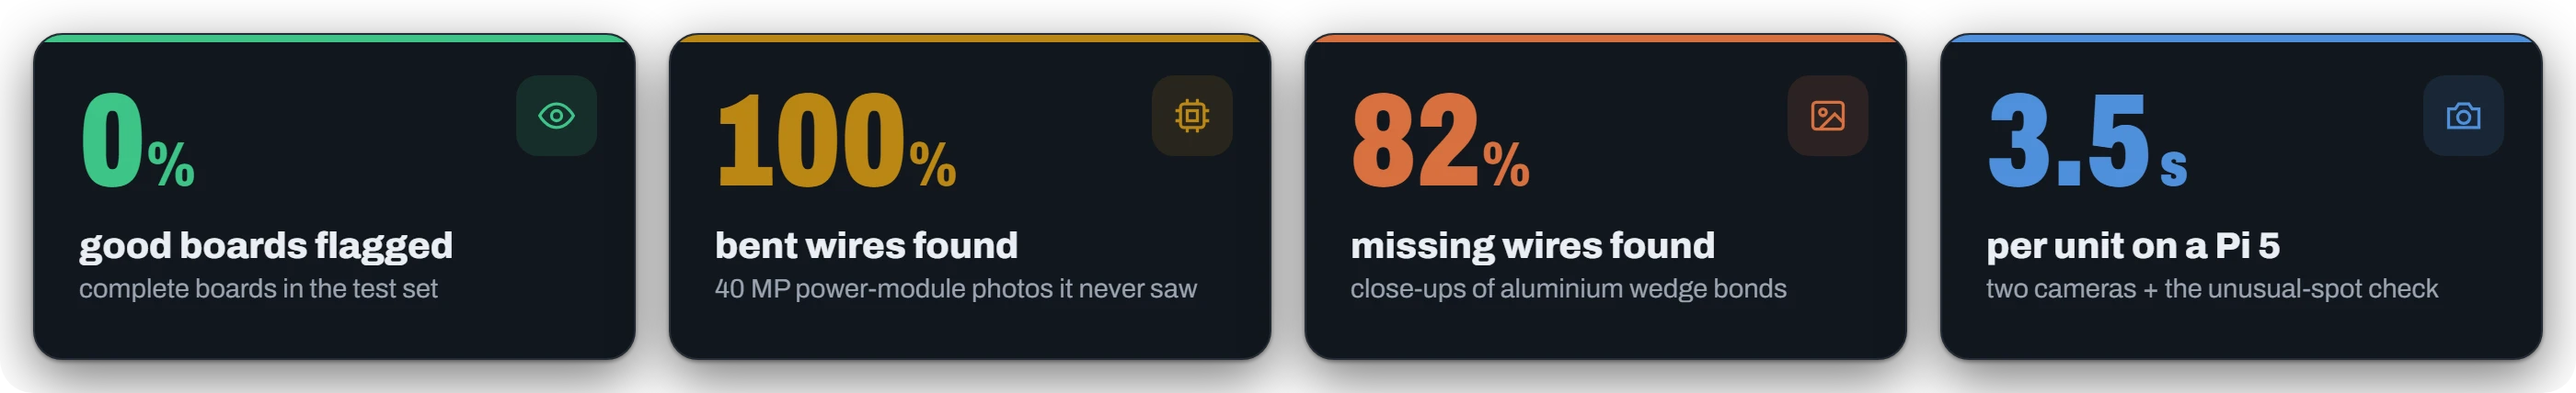
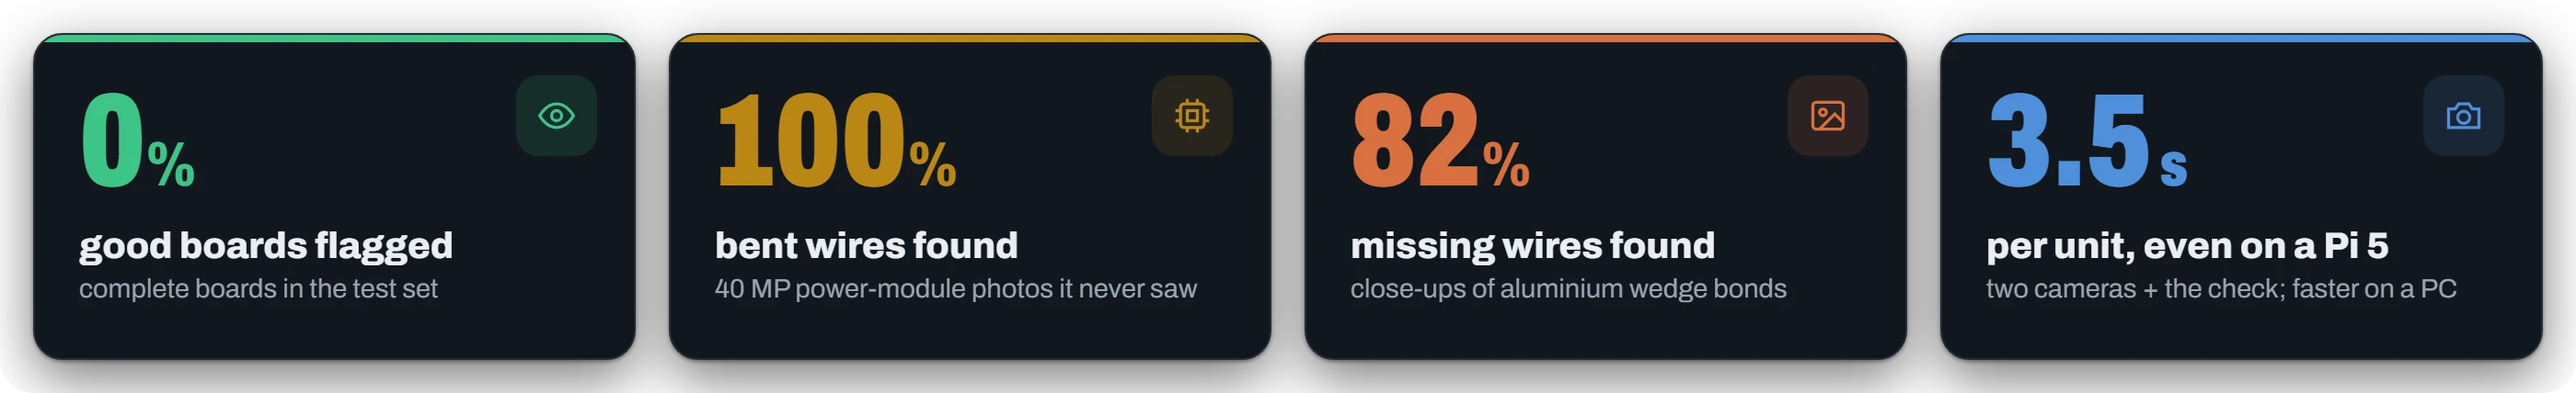
Say it runs on a PC or a Raspberry Pi 5, not only on the Pi
The Pi 5 is the smallest machine it has been tested on; any 64-bit Windows or Linux computer works, and a faster CPU is quicker.

Changed region(s): [[0.8079, 0.5771, 0.9321, 0.6682], [0.8389, 0.6986, 0.9632, 0.7593]]

diff --git a/docs/brand/figures.html b/docs/brand/figures.html
@@ -565,7 +565,7 @@ F.glance=d=>{
   const C=[["0","%","good boards flagged","complete boards in the test set","var(--green)",ICON.eye],
            ["100","%","bent wires found","40 MP power-module photos it never saw","var(--gold)",ICON.chip],
            ["82","%","missing wires found","close-ups of aluminium wedge bonds","var(--copper)",ICON.photo],
-           ["3.5"," s","per unit on a Pi 5","two cameras + the unusual-spot check","var(--blue)",ICON.cam]];
+           ["3.5"," s","per unit, even on a Pi 5","two cameras + the check; faster on a PC","var(--blue)",ICON.cam]];
   $("#bd").style.padding="18px";
   $("#bd").innerHTML=`<div style="display:grid;grid-template-columns:repeat(4,1fr);gap:18px;height:100%">${C.map(([n,u,t,s,c,ic])=>`
     <div style="background:var(--card);border:1px solid var(--line);border-radius:16px;box-shadow:var(--shadow);padding:22px 24px;position:relative;overflow:hidden">

diff --git a/docs/brand/hero.html b/docs/brand/hero.html
@@ -47,7 +47,7 @@ html,body{margin:0;background:#0b0d10}
   <div class="word">
     <div class="k">OPEN-SOURCE AOI FOR WIRE BONDS</div>
     <h1>BOND<span>SIGHT</span></h1>
-    <p>Finds wire-bond defects in photos. Runs on a Raspberry&nbsp;Pi&nbsp;5. Learns from your operators.</p>
+    <p>Finds wire-bond defects in photos. Runs on a PC or a Raspberry&nbsp;Pi&nbsp;5. Learns from your operators.</p>
   </div>
   <div class="chips"><span class="chip"><b>8</b> defect types</span><span class="chip">no GPU, no cloud</span><span class="chip">MIT licence</span></div>
   <div class="stage">

diff --git a/README.md b/README.md
@@ -2,14 +2,15 @@
 
 BondSight checks photos of wire-bonded chips for defects. It draws a box around each problem it
 finds, says what kind of defect it is, and learns from the operators who confirm or reject its
-calls. It runs on a Raspberry Pi 5 without a GPU, so the photos never have to leave the factory.
+calls. It runs on an ordinary PC, or on something as small as a Raspberry Pi 5, and it needs no
+GPU, so the photos never have to leave the factory.
 
 [![Licence: MIT](https://img.shields.io/badge/code-MIT-2A2F33)](LICENSE)
 [![Text: CC BY 4.0](https://img.shields.io/badge/text-CC%20BY%204.0-2A2F33)](#licence-and-credits)
-![Runs on Raspberry Pi 5](https://img.shields.io/badge/runs%20on-Raspberry%20Pi%205-C98A00)
+![Runs on a PC or a Raspberry Pi 5](https://img.shields.io/badge/runs%20on-PC%20%C2%B7%20Raspberry%20Pi%205-C98A00)
 ![No GPU needed](https://img.shields.io/badge/GPU-not%20needed-767D7A)
 
-![BondSight: open-source AOI for wire bonds. Finds wire-bond defects in photos, runs on a Raspberry Pi 5, learns from your operators.](docs/images/hero.webp)
+![BondSight: open-source AOI for wire bonds. Finds wire-bond defects in photos, runs on a PC or a Raspberry Pi 5, learns from your operators.](docs/images/hero.webp)
 
 I'm Avishek Mondal, a materials scientist. I've worked hands-on in semiconductor packaging: die
 attach, wire bonding, encapsulation, yield and defect analysis. I started BondSight to learn how a
@@ -25,7 +26,7 @@ was done, use it, or improve it.
 
 <picture>
   <source media="(prefers-color-scheme: dark)" srcset="docs/images/fig-glance-dark.webp">
-  <img alt="At a glance: 0% good boards flagged; 100% bent wires found on power-module photos; 82% missing wires found in close-ups; 3.5 s per unit on a Raspberry Pi 5" src="docs/images/fig-glance-light.webp">
+  <img alt="At a glance: 0% good boards flagged; 100% bent wires found on power-module photos; 82% missing wires found in close-ups; 3.5 s per unit even on a Raspberry Pi 5" src="docs/images/fig-glance-light.webp">
 </picture>
 
 These numbers come from test photos the model never saw during training. On the NTUST photos,
@@ -37,6 +38,10 @@ Some of those test photos come from the same sources as the training data, so on
 the numbers will be lower until the model has been trained on that product. The biggest single
 improvement so far came from adding photos of good boards to the training: the share of good
 boards wrongly flagged dropped from 100% to 0%.
+
+It runs on the CPU, so any 64-bit Windows or Linux computer will do. The Raspberry Pi 5 is the
+smallest machine it has been tested on: there, a two-camera unit takes about 3.5 s. On a laptop CPU
+one photo takes 2.3 s instead of the Pi's 3.1 s, and a faster PC is quicker still.
 
 All results are in [docs/results.md](docs/results.md). The data, the maths and the models are
 explained in [docs/technical.md](docs/technical.md).
